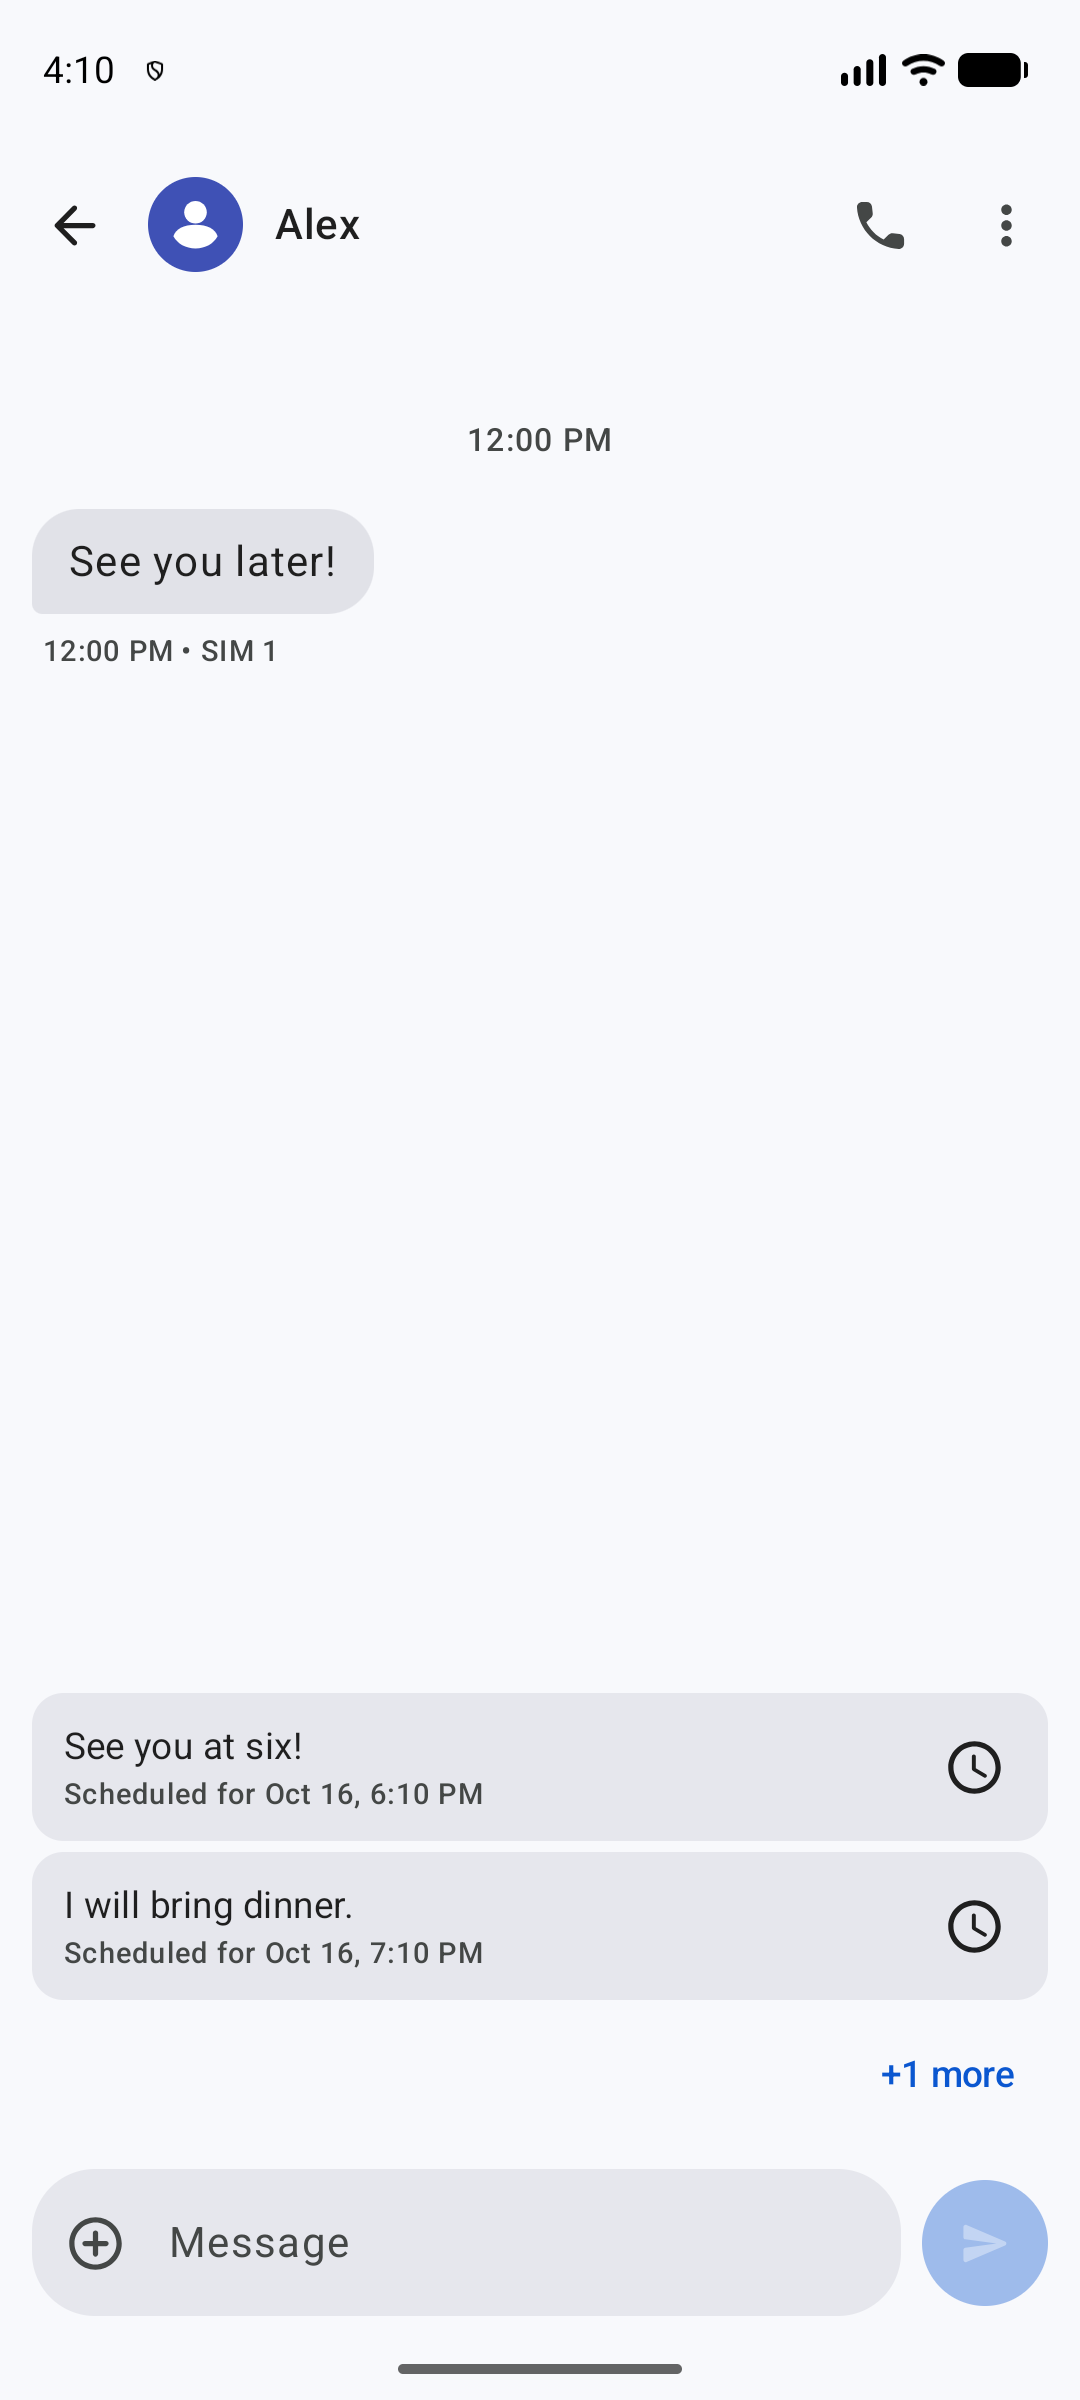
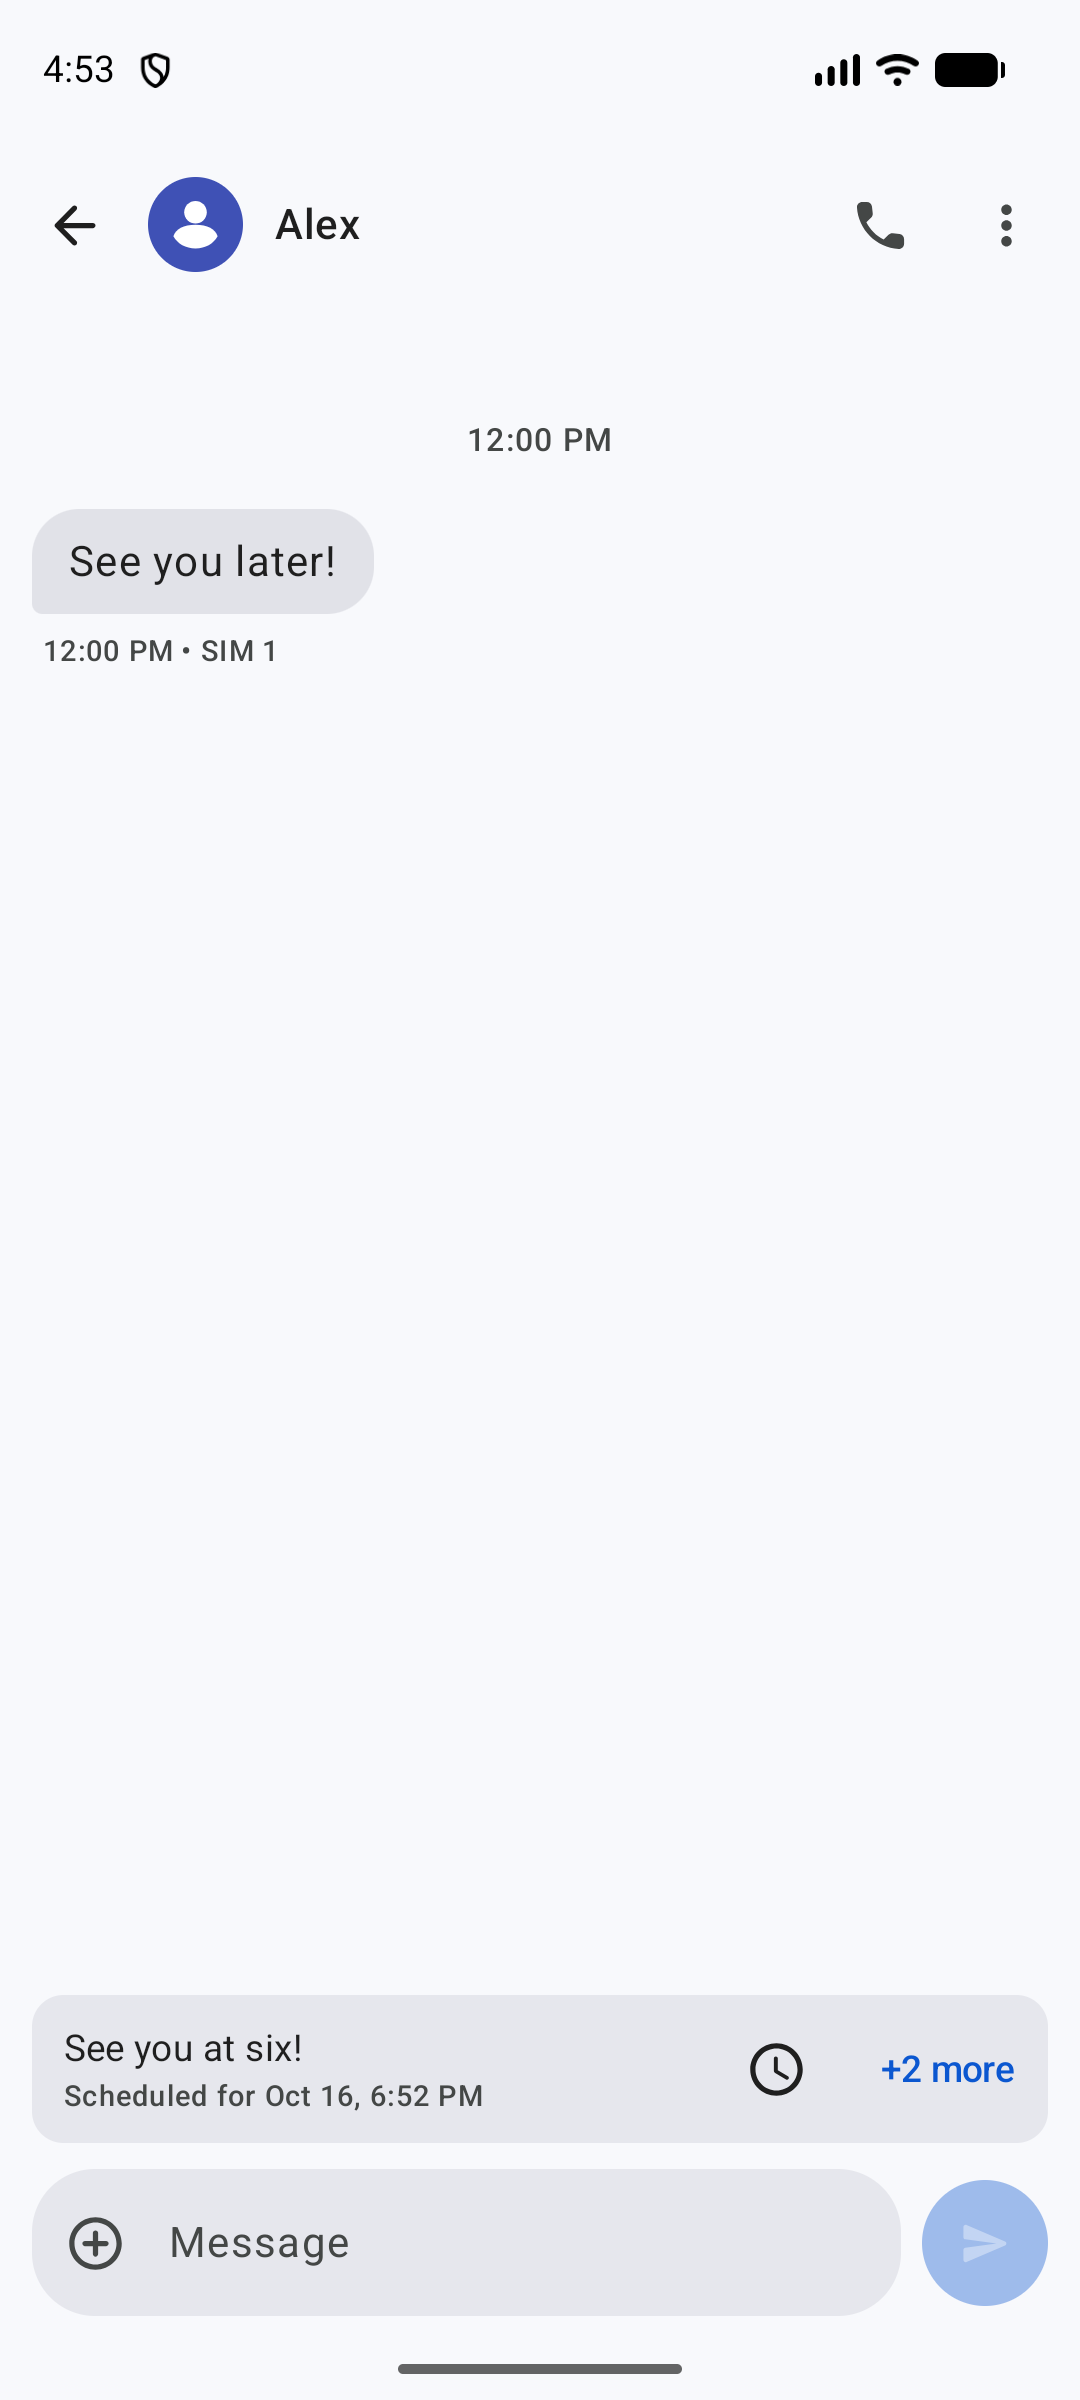
feat: compact scheduled messages into one row with inline overflow

diff --git a/app/src/main/java/com/anindra/messages/ui/ScheduledMessageTray.kt b/app/src/main/java/com/anindra/messages/ui/ScheduledMessageTray.kt
@@ -24,16 +24,14 @@ import com.anindra.messages.data.ScheduledTray
 internal fun ScheduledMessageTray(messages: List<ScheduledMessage>, onManage: (ScheduledMessage) -> Unit) {
     var expanded by remember { mutableStateOf(false) }
     if (messages.isEmpty()) return
-    Column(Modifier.fillMaxWidth().padding(horizontal = 12.dp, vertical = 4.dp), verticalArrangement = Arrangement.spacedBy(4.dp)) {
-        messages.take(2).forEach { message ->
-            key(message.id) { ScheduledTrayRow(message, onManage = { onManage(message) }) }
-        }
-        val overflow = ScheduledTray.overflowCount(messages.size)
-        if (overflow > 0) {
-            TextButton(onClick = { expanded = true }, modifier = Modifier.align(Alignment.End)) {
-                Text(stringResource(R.string.chat_scheduled_more, overflow))
-            }
-        }
+    Box(Modifier.fillMaxWidth().padding(horizontal = 12.dp, vertical = 2.dp)) {
+        val message = messages.first()
+        ScheduledTrayRow(
+            message,
+            onManage = { onManage(message) },
+            overflowCount = ScheduledTray.overflowCount(messages.size),
+            onShowAll = { expanded = true }
+        )
     }
     if (expanded) {
         ScheduledTraySheet(messages, onManage, onDismiss = { expanded = false })
@@ -41,7 +39,12 @@ internal fun ScheduledMessageTray(messages: List<ScheduledMessage>, onManage: (S
 }
 
 @Composable
-internal fun ScheduledTrayRow(message: ScheduledMessage, onManage: () -> Unit) {
+internal fun ScheduledTrayRow(
+    message: ScheduledMessage,
+    onManage: () -> Unit,
+    overflowCount: Int = 0,
+    onShowAll: (() -> Unit)? = null
+) {
     val context = LocalContext.current
     Surface(shape = RoundedCornerShape(12.dp), color = MaterialTheme.colorScheme.surfaceContainerHigh) {
         Row(Modifier.fillMaxWidth().padding(start = 12.dp, end = 4.dp, top = 4.dp, bottom = 4.dp), verticalAlignment = Alignment.CenterVertically) {
@@ -57,6 +60,12 @@ internal fun ScheduledTrayRow(message: ScheduledMessage, onManage: () -> Unit) {
             Spacer(Modifier.width(8.dp))
             IconButton(onClick = onManage, modifier = Modifier.size(48.dp)) {
                 Icon(Icons.Rounded.Schedule, stringResource(R.string.settings_scheduled_manage_title))
+            }
+            if (overflowCount > 0 && onShowAll != null) {
+                Spacer(Modifier.width(8.dp))
+                TextButton(onClick = onShowAll, modifier = Modifier.heightIn(min = 48.dp), contentPadding = PaddingValues(horizontal = 8.dp)) {
+                    Text(stringResource(R.string.chat_scheduled_more, overflowCount))
+                }
             }
         }
     }

diff --git a/app/src/test/java/com/anindra/messages/data/ScheduledTrayTest.kt b/app/src/test/java/com/anindra/messages/data/ScheduledTrayTest.kt
@@ -12,16 +12,18 @@ class ScheduledTrayTest {
         assertEquals(listOf(1L, 2L, 3L), ScheduledTray.messages(rows, 1).map { it.id })
     }
 
-    @Test fun overflowCountsOnlyMessagesBeyondTwoVisibleSlots() {
+    @Test fun overflowCountsEveryMessageAfterTheSingleVisibleSlot() {
         assertEquals(0, ScheduledTray.overflowCount(0))
         assertEquals(0, ScheduledTray.overflowCount(1))
-        assertEquals(0, ScheduledTray.overflowCount(2))
-        assertEquals(1, ScheduledTray.overflowCount(3))
-        assertEquals(98, ScheduledTray.overflowCount(100))
+        assertEquals(1, ScheduledTray.overflowCount(2))
+        assertEquals(2, ScheduledTray.overflowCount(3))
+        assertEquals(99, ScheduledTray.overflowCount(100))
     }
 
     @Test fun deletingFirstMessagePromotesNextScheduledMessage() {
         val rows = listOf(row(1, 100), row(2, 200), row(3, 300))
-        assertEquals(listOf(2L, 3L), ScheduledTray.messages(rows.drop(1), 1).take(2).map { it.id })
+        val remaining = ScheduledTray.messages(rows.drop(1), 1)
+        assertEquals(2L, remaining.first().id)
+        assertEquals(1, ScheduledTray.overflowCount(remaining.size))
     }
 }

diff --git a/docs/comparisons/compact-tray/index.html b/docs/comparisons/compact-tray/index.html
@@ -1,0 +1,1 @@
+<!doctype html><html lang="en"><meta charset="utf-8"><meta name="viewport" content="width=device-width,initial-scale=1"><title>Compact scheduled messages — before and after</title><style>body{font:16px system-ui;margin:32px;background:#f5f5f5;color:#222}h1{font-size:24px}.pair{display:flex;gap:24px;flex-wrap:wrap}figure{margin:0;flex:1;min-width:240px;max-width:420px}img{width:100%;height:auto}figcaption{font-weight:600;margin:12px 0}</style><h1>Compact scheduled messages in the conversation</h1><div class="pair"><figure><figcaption>Before</figcaption><img src="before.png" alt="Compact scheduled messages mixed into conversation history"></figure><figure><figcaption>After</figcaption><img src="after.png" alt="Two scheduled messages above the composer, with an overflow control"></figure></div></html>

diff --git a/app/src/main/java/com/anindra/messages/data/ScheduledTray.kt b/app/src/main/java/com/anindra/messages/data/ScheduledTray.kt
@@ -5,5 +5,5 @@ internal object ScheduledTray {
         rows.filter { it.conversationId == conversationId }
             .sortedWith(compareBy<ScheduledMessage> { it.timestamp }.thenBy { it.id })
 
-    fun overflowCount(size: Int): Int = (size - 2).coerceAtLeast(0)
+    fun overflowCount(size: Int): Int = (size - 1).coerceAtLeast(0)
 }
